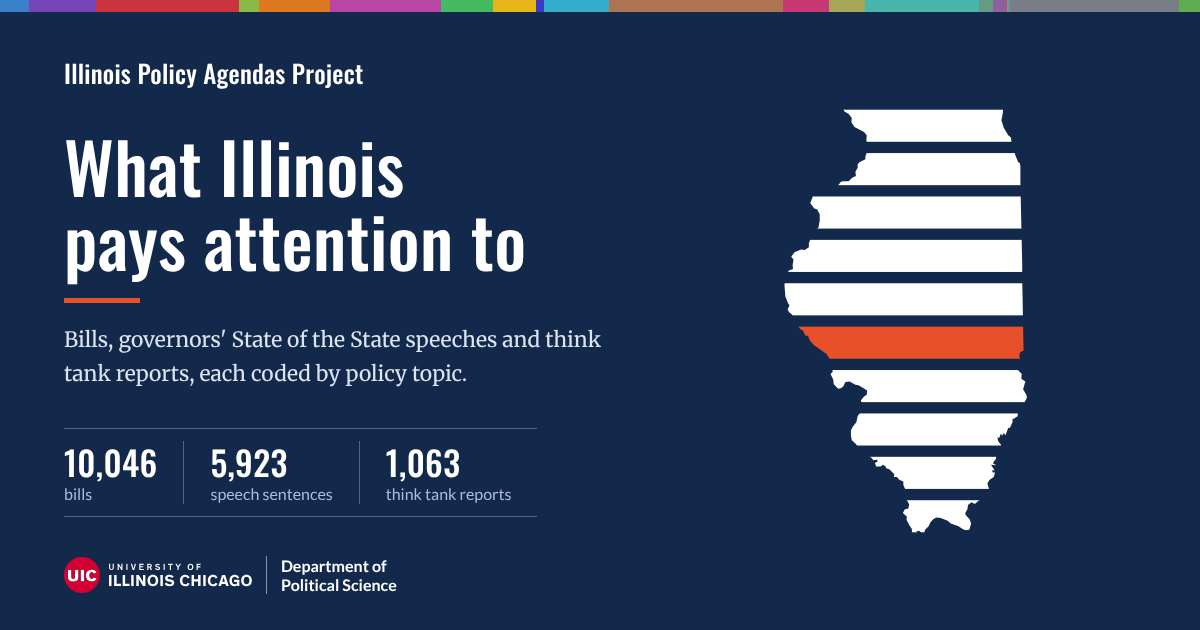
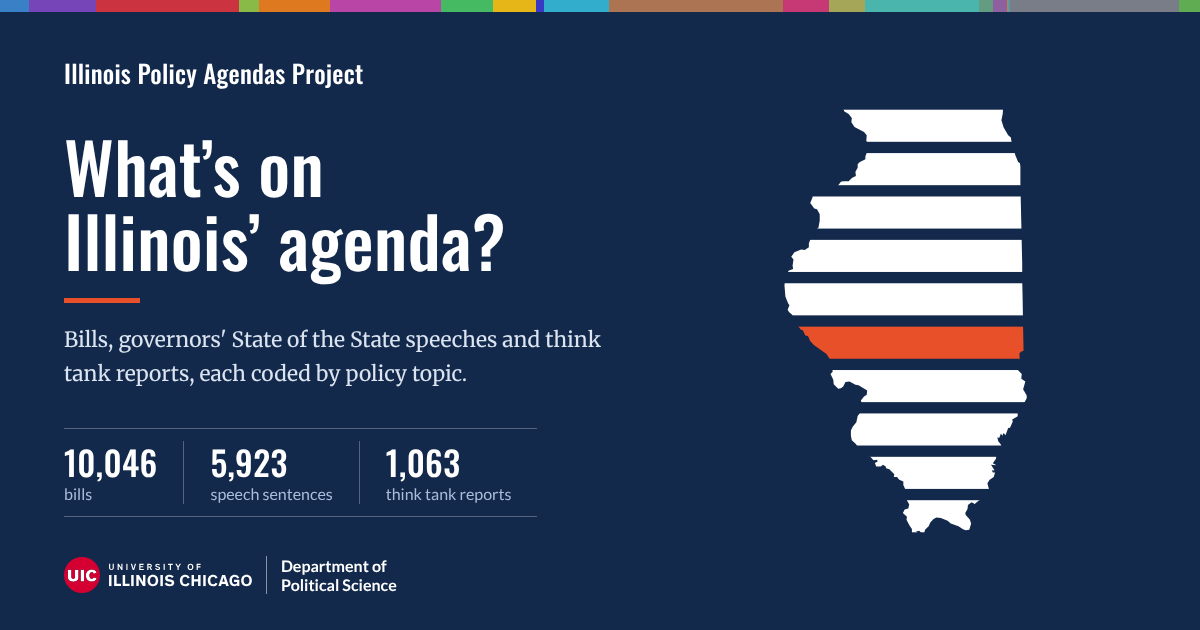
Publish site (data built 2026-11-13 01:35)

Changed region(s): [[0.0308, 0.2111, 0.4625, 0.4524]]

diff --git a/docs/index.html b/docs/index.html
@@ -12,14 +12,14 @@
 <meta property="og:title" content="Illinois Policy Agendas Project">
 <meta property="og:description" content="What Illinois governors, legislators and think tanks pay attention to: bills, State of the State speeches and think tank reports, each coded by policy topic.">
 <meta property="og:url" content="https://www.illinoisagendas.org/">
-<meta property="og:image" content="https://www.illinoisagendas.org/social.png?v=4">
+<meta property="og:image" content="https://www.illinoisagendas.org/social.png?v=5">
 <meta property="og:image:width" content="1200">
 <meta property="og:image:height" content="630">
-<meta property="og:image:alt" content="Illinois Policy Agendas Project: what Illinois pays attention to. The project logo, the outline of Illinois drawn as horizontal bars with one orange bar.">
+<meta property="og:image:alt" content="Illinois Policy Agendas Project: What’s on Illinois’ agenda? The project logo, the outline of Illinois drawn as horizontal bars with one orange bar.">
 <meta name="twitter:card" content="summary_large_image">
 <meta name="twitter:title" content="Illinois Policy Agendas Project">
 <meta name="twitter:description" content="What Illinois governors, legislators and think tanks pay attention to: bills, State of the State speeches and think tank reports, each coded by policy topic.">
-<meta name="twitter:image" content="https://www.illinoisagendas.org/social.png?v=4">
+<meta name="twitter:image" content="https://www.illinoisagendas.org/social.png?v=5">
 <!-- for Google Dataset Search and other search engines -->
 <script type="application/ld+json">
 {"@context":"https://schema.org","@type":"Dataset","name":"Illinois Policy Agendas Project",
